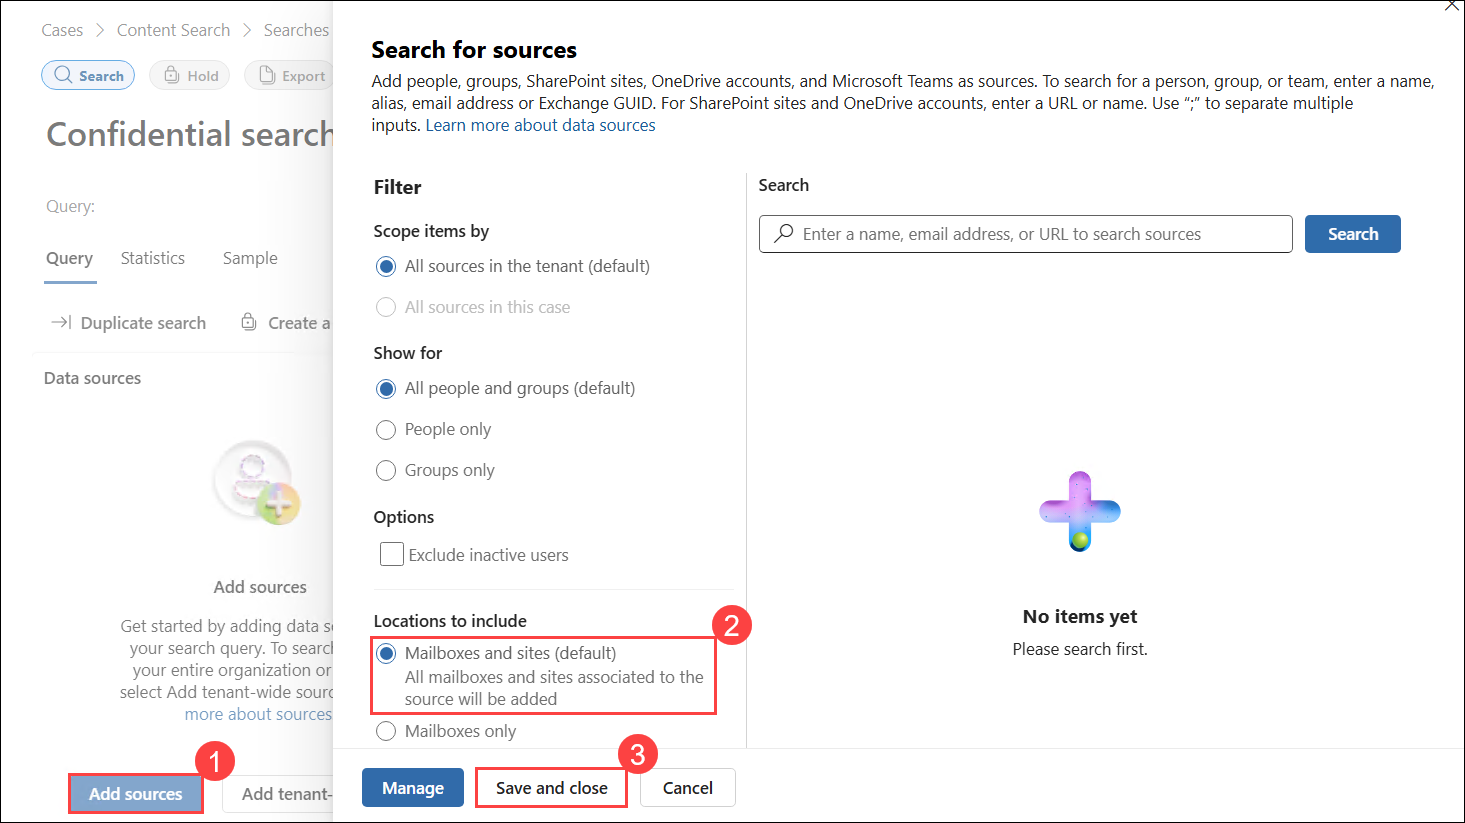
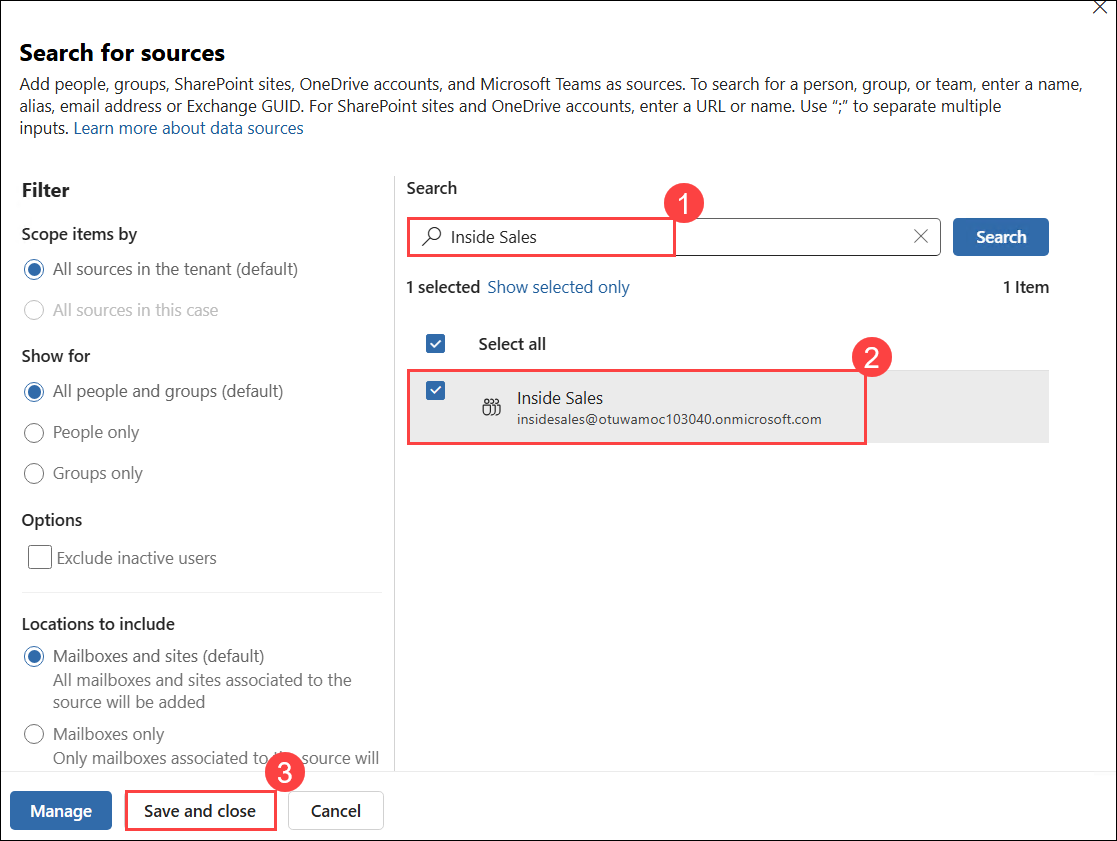
update

diff --git a/Instructions/Labs/LAB_AK_06_Lab6_Ex4_eDiscovery_Alert.md b/Instructions/Labs/LAB_AK_06_Lab6_Ex4_eDiscovery_Alert.md
@@ -40,7 +40,7 @@ In this task, you will verify whether a default Microsoft 365 alert is triggered
 
 		- Daily notification limit: **No limit**
 
-		![](../Images/ms102-p18t1p2.png)
+			![](../Images/ms102-p18t1p2.png)
 
 1. At the top of the pane, select the **Edit policy** button.
 
@@ -88,6 +88,12 @@ To test this default alert, Holly Dickson will create an eDiscovery search. This
 	
 	  	![](../Images/ediscovery3.png)
 
+	 - In the **Manage eDiscovery Administrator** window, select the **Choose users** button. Search for and select **Holly Dickson**, and then click **Select**. Holly’s name should now appear in the list. Select **Next**.
+
+	 - In the Review the role group and finish window, verify Holly is listed as a member of both role groups, and then select **Save**.
+
+	 - In the confirmation pane, select **Done**.
+
 1. On the **Content Search** tab, under **Searches**, select **Create a search**. This initiates the **New search wizard**.
 
 	![](../Images/ms102-p18t2p5.png)
@@ -96,11 +102,12 @@ To test this default alert, Holly Dickson will create an eDiscovery search. This
 
 	![](../Images/ms102-p18t2p6.png)
 
-1. In the **Confidential search** window, select **Add sources (1)**.  
-   - In the search pane, locate and select the **Sales and Marketing** mailbox (or, if not available, select **All mailboxes (2)**).  
+1. In the **Confidential search** window, select **Add sources**.
+
+   - In the Search for sources pane search **Inside Sales (1)**, locate and select the **Inside Sales (2)**.  
    - Select **Save and close (3)**.
 
-	![](../Images/ms102-p18t2p7.png)
+		![](../Images/ms102-p18t2p7.png)
 
 1. On the **Query** tab, in the condition builder, enter **Confidential (1)** in the keyword field, and then press **Enter**. 
 
@@ -108,11 +115,15 @@ To test this default alert, Holly Dickson will create an eDiscovery search. This
 
 	![](../Images/ms102-p18t2p8.png)
 
-1. On the **Choose search results** page, leave the default values, and then select **Run query** again.  
+1. On the **Choose search results** page, leave the default values, and then select **Run Query** again.  
+
+	![](../Images/ms102-p18t2p9.png)
 
 1. Back on the **Confidential search** window, the **Statistics** tab should now display results.  
 
-   **Note:** Running this search should trigger the **eDiscovery alert**, which generates an email notification to all users with Tenant Admin permissions. It may take several minutes for the email to be delivered. Instead of waiting, proceed to the next exercise.
+	![](../Images/ms102-p18t2p10.png)
+
+    >**Note:** Running this search should trigger the **eDiscovery alert**, which generates an email notification to all users with Tenant Admin permissions. It may take several minutes for the email to be delivered. Instead of waiting, proceed to the next exercise.
 
 Leave your browser open in **LON-CL1** and do not close any tabs.  
 

diff --git a/Instructions/Labs/LAB_AK_03_Lab3_Ex2_Implement_Identity_Synch.md b/Instructions/Labs/LAB_AK_03_Lab3_Ex2_Implement_Identity_Synch.md
@@ -187,17 +187,6 @@ In this task, you will install Microsoft Entra Connect on a designated server an
 	![](../Images/ms102-p8t1p17.png)
 
 	>**Note:** For example, in **odl_user_<inject key="DeploymentID" enableCopy="false"/>@otuwamocZZZZZZ.onmicrosoft.com**, the highlighted portion (**otuwamocZZZZZZ.onmicrosoft.com**) represents the domain name or tenant prefix, which you can replace with your desired tenant prefix.
-	
-1. In the bottom portion of the screen, a detail pane appears showing the detailed information for this selected operation. 
-
-	- In the **Export Statistics** pane on the left, note the number of on-premises users that were added to Azure Active Directory and the number that were updated. 
-	- In the **Export Errors** pane on the right, note the errors that appear. If you recall back in the prior lab exercise when you ran the IdFix tool, there were two users with validation errors that you purposely did not fix (**Ngoc Bich Tran** and **An Dung Dao**). 
-
-		- Select the first link (CN={xxxxxx...) under the **Export Errors** column that applies to the first **DataValidationFailed** error. This will display the first of these two users that were not synchronized by the Microsoft Entra ID Connect tool. Review the error to see why this account is broken. **Tip:** In the **Connector Space Object Properties** window, select the **Export Error** tab. In the **Error Information** section, select the **Detail** button. Review the detailed error information, and then select **Close**. Select **Close** again. 
-
-		- Select the second Data Validation error link and verify this error is for the second user that you purposely did not fix. Follow the same steps as before to review the error for this user.   
-
-	>**IMPORTANT:** Because a synchronization had not been performed prior to this, the initial synchronization was a **Full Synchronization** (see the **Profile Name** column in the top pane). Because the synchronization process will continue to run automatically every 30 minutes, any subsequent synchronizations will display **Delta Synchronization** as its **Profile Name**. If you leave the **Synchronization Service Manager** window open, after 30 minutes you will see that it attempts to synchronize the two users who were not synchronized during the initial synchronization. These will display as a **Delta Synchronization** rather than a **Full Synchronization**.
 
 1. Now that you have seen Microsoft Entra ID Connect complete a Full Synchronization, in the next task you will make some updates and manually force an immediate synchronization rather than waiting for it to synchronize updates every 30 minutes. Close the **Synchronization Service Manager on LON-DC1** window. 
 

diff --git a/Instructions/Labs/LAB_AK_06_Lab6_Ex5_AttackSim_Phishing_attack.md b/Instructions/Labs/LAB_AK_06_Lab6_Ex5_AttackSim_Phishing_attack.md
@@ -88,6 +88,8 @@ In this lab exercise, you will use one of the existing payload templates. In the
 
 1. In the **Microsoft 365 Defender** portal, under the **Email & collaboration** section in the left-hand navigation pane, select **Attack simulation training**. If a **Welcome to Attack simulation training** window appears, select **Close**.
 
+	>**Note:** If you do not see the **Attack simulation training** option under the Email & collaboration section in the Microsoft 365 Defender portal, skip this lab and the next lab (Lab 06 - Exercise 6) for now. The remaining labs are independent and can be completed without this feature. Once the Attack simulation training option becomes available in your tenant, you can return and complete these labs.
+
 1. On the **Attack simulation training** page, Holly has decided to conduct a simulated account breach in which she will use a URL to try and obtain usernames and passwords. This is referred to in the Attack Simulator as a **Credentials Harvest** attack. 
 
 	>**Note:** Notice the tabs that appear across the top of the **Attack simulation training** page (where the **Overview** tab is displayed by default).You can launch this attack either from **Simulations** tab by selecting the **+ Launch a simulation**. Since the **Overview** tab has additional information and is the default page when selecting the **Attack simulation training** service, it is recommended that you launch it from there so that you can learn about the specifics of this type of attack. 

diff --git a/Instructions/Labs/LAB_AK_05_Lab5_Ex2_Safe_Links.md b/Instructions/Labs/LAB_AK_05_Lab5_Ex2_Safe_Links.md
@@ -169,6 +169,8 @@ You will then go back into Holly's Outlook mailbox and open the email in her Sen
     >**Note:** In the Safe Links policy that you created, you selected the option to have Safe Links check a list of known, malicious links whenever a user selects a link in an email. So when you selected this link in the email message to the http://tailspintoys.com URL that was on the blocked list, Safe Links returned the malicious website warning page. You just verified that the Safe Links policy that you created is working.
 
     ![](../Images/ms-102-100.png)
+
+    >**Note:** It may take up to 24 hours for the policy to fully activate. If you do not see the warning message indicating that the website is classified as malicious, please wait 24 hours and try again.
   
 1. You should now prepare LON-CL2 for the next lab that will use it. In your Edge browser, in the Outlook tab, select the circle with the **O1** initials in the upper right-hand corner. In the **ODL user** profile window that appears, select **Sign out**.
 
